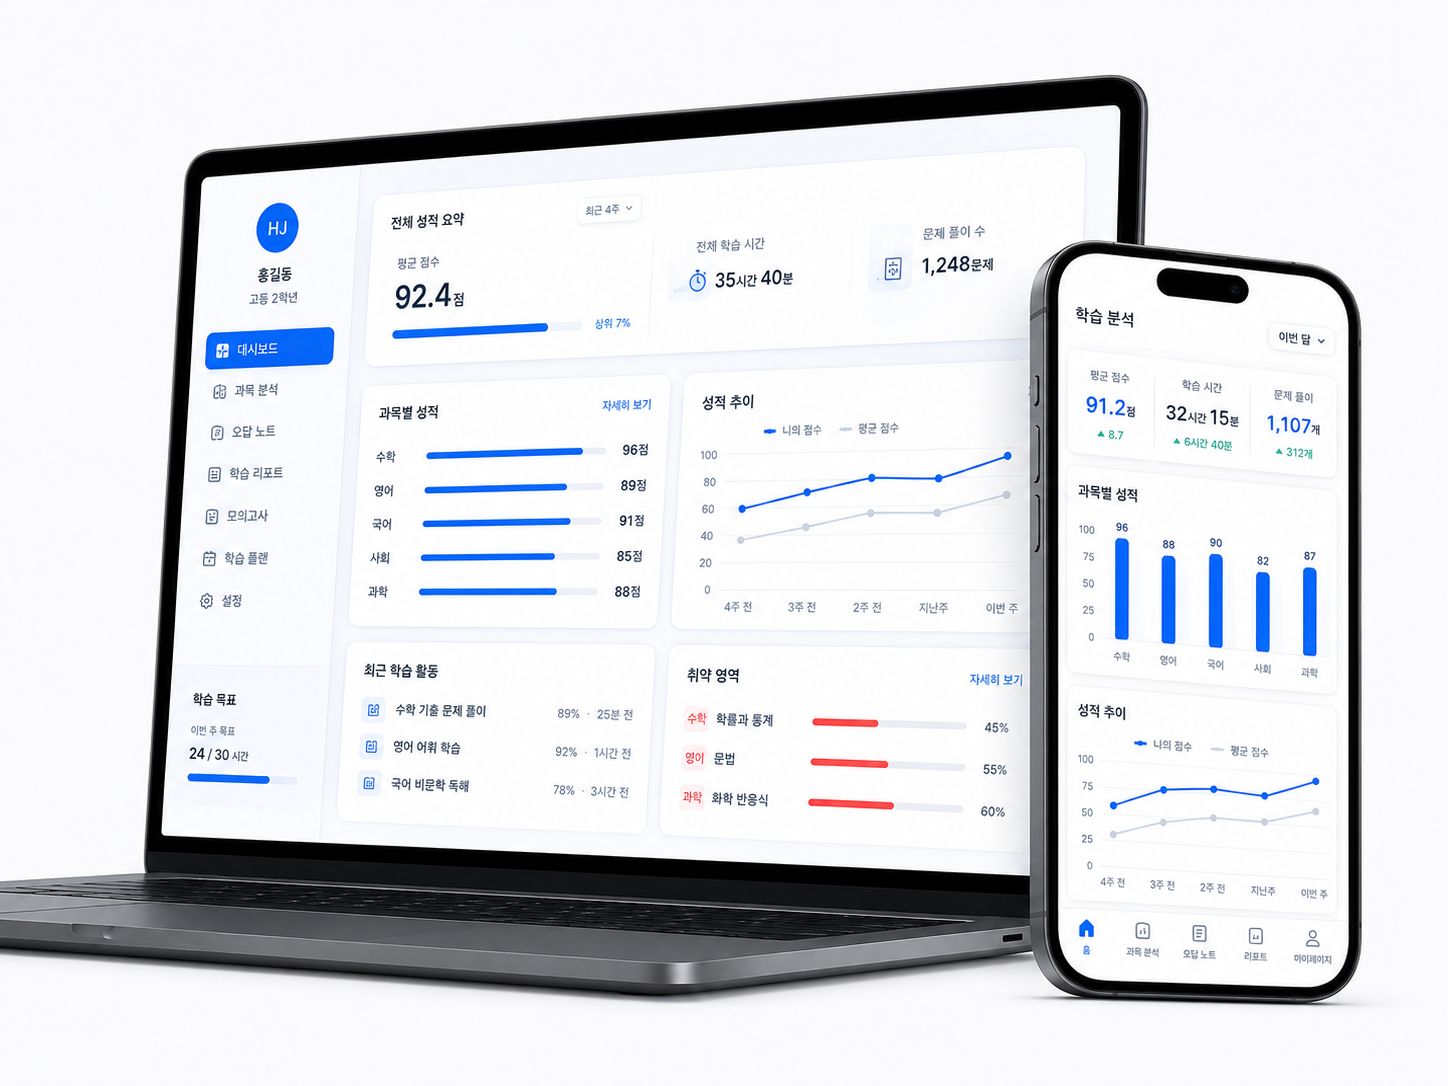
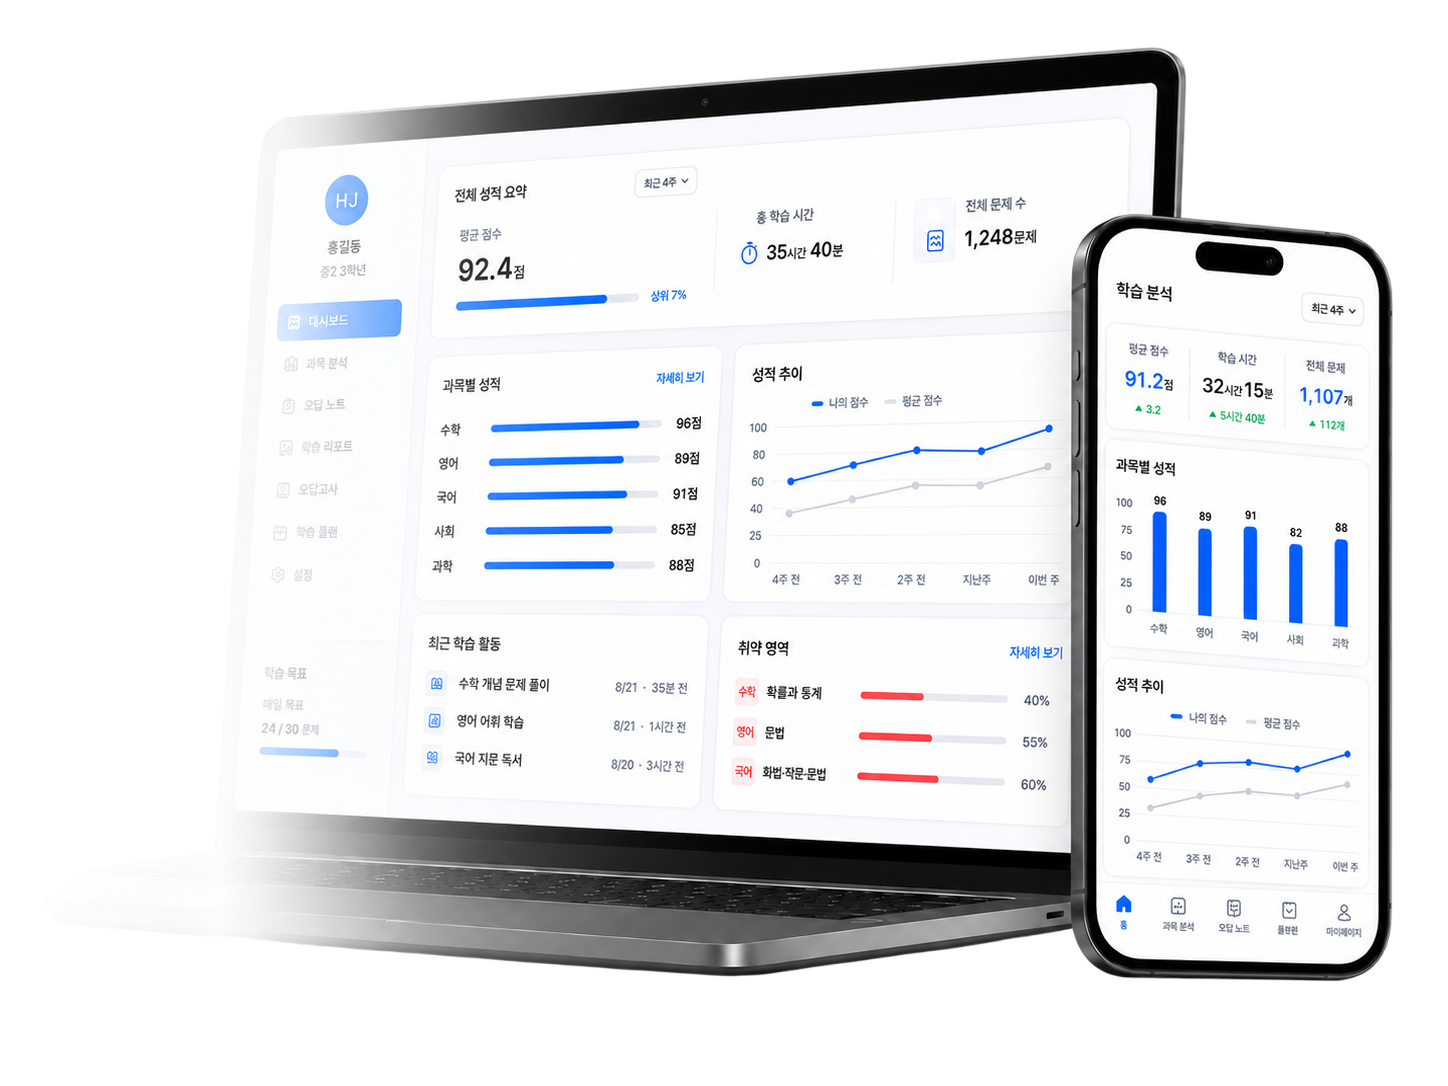
reaarange payment and service page 1.1

diff --git a/css/service.css b/css/service.css
@@ -33,23 +33,9 @@ ul, ol { list-style: none; margin: 0; padding: 0; }
 img, svg { display: block; max-width: 100%; }
 
 /* =========================================
-   2. Header (main site 동일 구조)
-   ========================================= */
-#site-header { position: sticky; top: 0; z-index: 100; height: 83px; padding: 0 32px; display: flex; align-items: center; justify-content: space-between; background: rgba(255,255,255,.92); backdrop-filter: blur(10px); -webkit-backdrop-filter: blur(10px); border-bottom: 1px solid rgba(0,0,0,.06); }
-.logo-container { display: flex; align-items: center; }
-.logo-link { display: flex; align-items: center; gap: 10px; }
-.logo-link svg { flex-shrink: 0; }
-.logo { font-size: 20px; font-weight: 900; color: var(--navy); letter-spacing: -0.03em; }
-.nav-links { display: flex; align-items: center; gap: 28px; }
-.nav-links a { font-size: 15px; font-weight: 600; color: var(--text); transition: color .18s; }
-.nav-links a:hover { color: var(--primary); }
-.nav-btn { min-height: 38px; padding: 0 18px; background: var(--primary); color: #fff !important; border-radius: var(--radius-sm); font-weight: 800 !important; font-size: 14px !important; display: inline-flex; align-items: center; transition: background .18s !important; }
-.nav-btn:hover { background: var(--primary-dark) !important; }
-
-/* =========================================
    3. 공통 레이아웃
    ========================================= */
-.service-page { width: min(100%, var(--container)); margin: 0 auto; }
+.service-page { width: min(100%, var(--container)); margin: 0 auto; padding-top: 83px; }
 .section-label { margin: 0 0 14px; font-size: 14px; font-weight: 800; color: var(--primary); letter-spacing: .06em; text-transform: uppercase; }
 .btn { min-height: 52px; padding: 0 28px; display: inline-flex; align-items: center; justify-content: center; gap: 10px; border-radius: var(--radius-sm); font-size: 15px; font-weight: 800; font-family: inherit; cursor: pointer; border: 0; transition: background .18s, transform .18s, box-shadow .18s; letter-spacing: -0.01em; }
 .btn-primary { background: var(--primary); color: #fff; box-shadow: 0 8px 22px rgba(76,121,238,.28); }
@@ -62,7 +48,7 @@ img, svg { display: block; max-width: 100%; }
 /* =========================================
    4. Hero Section
    ========================================= */
-.hero-section { padding: 64px 44px 52px; display: grid; grid-template-columns: minmax(0,1fr) minmax(360px,500px); gap: 32px; align-items: center; background: radial-gradient(circle at 15% 20%, rgba(76,121,238,.08) 0%, transparent 40%), linear-gradient(180deg, #fff 0%, #f8fbff 100%); }
+.hero-section { padding: 64px 44px 52px; display: grid; grid-template-columns: minmax(0,1fr) minmax(360px,560px); gap: 0; align-items: start; background: radial-gradient(circle at 10% 30%, rgba(76,121,238,.07) 0%, transparent 44%); overflow: visible; }
 .eyebrow { margin: 0 0 16px; font-size: 16px; font-weight: 800; color: var(--primary); }
 .hero-copy h1 { margin: 0; font-size: clamp(36px, 4.5vw, 52px); line-height: 1.18; letter-spacing: -0.04em; color: var(--navy); }
 .hero-copy h1 strong { color: var(--primary); }
@@ -72,8 +58,9 @@ img, svg { display: block; max-width: 100%; }
 .safe-note i { color: var(--primary); font-size: 13px; }
 
 /* Hero Visual — 실제 서비스 이미지 */
-.hero-visual { display: flex; align-items: center; justify-content: center; }
-.hero-device-img { width: 100%; max-width: 520px; height: auto; object-fit: contain; filter: drop-shadow(0 20px 40px rgba(16,33,63,.14)); border-radius: var(--radius-lg); }
+.hero-copy { position: relative; z-index: 2; padding-top: 32px; width: calc(100% + 10%); margin-right: -10%; }
+.hero-visual { display: flex; align-items: flex-start; justify-content: flex-end; position: relative; z-index: 1; padding-top: 56px; }
+.hero-device-img { width: 100%; max-width: 620px; height: auto; object-fit: contain; filter: drop-shadow(0 16px 36px rgba(16,33,63,.1)); }
 
 /* =========================================
    5. Message Band
@@ -212,13 +199,10 @@ img, svg { display: block; max-width: 100%; }
    10. Responsive — Tablet (900px)
    ========================================= */
 @media (max-width: 900px) {
-  #site-header { height: 72px; padding: 0 22px; }
-  .logo { font-size: 18px; }
-  .nav-links { gap: 16px; }
-  .nav-links a:not(.nav-btn) { display: none; }
-
-  .service-page { width: 100%; }
+  .service-page { width: 100%; padding-top: 72px; }
   .hero-section { grid-template-columns: 1fr; padding: 48px 28px 36px; }
+  .hero-copy { padding-top: 0; width: 100%; margin-right: 0; }
+  .hero-visual { padding-top: 24px; justify-content: center; }
   .hero-device-img { max-width: 480px; margin: 0 auto; }
 
   .message-band { margin: 24px 28px; }
@@ -240,8 +224,7 @@ img, svg { display: block; max-width: 100%; }
    11. Responsive — Mobile (560px)
    ========================================= */
 @media (max-width: 560px) {
-  #site-header { height: 61px; padding: 0 16px; }
-  .logo { font-size: 16px; }
+  .service-page { padding-top: 61px; }
 
   .hero-section { padding: 40px 20px 28px; }
   .hero-copy h1 { font-size: 34px; }

diff --git a/css/payment.css b/css/payment.css
@@ -34,23 +34,9 @@ ul, ol { list-style: none; margin: 0; padding: 0; }
 img, svg { display: block; max-width: 100%; }
 
 /* =========================================
-   2. Header (main site 동일 구조)
-   ========================================= */
-#site-header { position: sticky; top: 0; z-index: 100; height: 83px; padding: 0 32px; display: flex; align-items: center; justify-content: space-between; background: rgba(255,255,255,.92); backdrop-filter: blur(10px); -webkit-backdrop-filter: blur(10px); border-bottom: 1px solid rgba(0,0,0,.06); }
-.logo-container { display: flex; align-items: center; }
-.logo-link { display: flex; align-items: center; gap: 10px; }
-.logo-link svg { flex-shrink: 0; }
-.logo { font-size: 20px; font-weight: 900; color: var(--navy); letter-spacing: -0.03em; }
-.nav-links { display: flex; align-items: center; gap: 28px; }
-.nav-links a { font-size: 15px; font-weight: 600; color: var(--text); transition: color .18s; }
-.nav-links a:hover { color: var(--primary); }
-.nav-btn { min-height: 38px; padding: 0 18px; background: var(--primary); color: #fff !important; border-radius: var(--radius-sm); font-weight: 800 !important; font-size: 14px !important; display: inline-flex; align-items: center; transition: background .18s !important; }
-.nav-btn:hover { background: var(--primary-dark) !important; }
-
-/* =========================================
    3. 공통 레이아웃
    ========================================= */
-.pay-page { width: min(100%, var(--container)); margin: 0 auto; }
+.pay-page { width: min(100%, var(--container)); margin: 0 auto; padding-top: 83px; }
 
 /* =========================================
    4. Hero Section
@@ -273,12 +259,7 @@ img, svg { display: block; max-width: 100%; }
    10. Responsive — Tablet (900px)
    ========================================= */
 @media (max-width: 900px) {
-  #site-header { height: 72px; padding: 0 22px; }
-  .logo { font-size: 18px; }
-  .nav-links { gap: 16px; }
-  .nav-links a:not(.nav-btn) { display: none; }
-
-  .pay-page { width: 100%; }
+  .pay-page { width: 100%; padding-top: 72px; }
 
   .pay-hero { grid-template-columns: 1fr; padding: 48px 28px 56px; }
   .hero-image-wrap { max-height: 320px; }
@@ -305,8 +286,7 @@ img, svg { display: block; max-width: 100%; }
    11. Responsive — Mobile (560px)
    ========================================= */
 @media (max-width: 560px) {
-  #site-header { height: 61px; padding: 0 16px; }
-  .logo { font-size: 16px; }
+  .pay-page { padding-top: 61px; }
 
   .pay-hero { padding: 40px 20px 48px; }
   .hero-copy h1 { font-size: 32px; }

diff --git a/js/payment.js b/js/payment.js
@@ -113,16 +113,9 @@ document.addEventListener('DOMContentLoaded', () => {
         return;
     }
 
-    // 헤더 스크롤 효과
     const header = document.getElementById('site-header');
-    if (header) {
-        const onScroll = () => {
-            if (window.scrollY > 10) header.classList.add('scrolled');
-            else header.classList.remove('scrolled');
-        };
-        window.addEventListener('scroll', onScroll, { passive: true });
-        onScroll();
-    }
+    if (header) header.classList.add('scrolled');
+    syncHeaderNav();
 
     // 스크롤 리빌 애니메이션
     const reveals = document.querySelectorAll('.road-card, .price-row, .example-card, .stat-card');
@@ -160,6 +153,39 @@ document.addEventListener('DOMContentLoaded', () => {
     setupPaymentLoadingInterceptor();
     fetchUserInfo(userId);
 });
+
+function syncHeaderNav() {
+    const isLoggedIn = !!localStorage.getItem('userId');
+    const btnAnalysis = document.getElementById('navAnalysis');
+    const btnQna = document.getElementById('navQna');
+    const btnLogin = document.getElementById('loginBtn');
+    const btnMyPage = document.getElementById('myPageBtn');
+    const btnLogout = document.getElementById('logoutBtn');
+
+    if (isLoggedIn) {
+        if (btnAnalysis) btnAnalysis.classList.remove('hidden');
+        if (btnQna) btnQna.classList.remove('hidden');
+        if (btnMyPage) btnMyPage.classList.remove('hidden');
+        if (btnLogout) btnLogout.classList.remove('hidden');
+        if (btnLogin) btnLogin.classList.add('hidden');
+    }
+
+    if (btnMyPage) {
+        btnMyPage.addEventListener('click', (e) => {
+            e.preventDefault();
+            window.location.href = '/mypage';
+        });
+    }
+
+    if (btnLogout) {
+        btnLogout.addEventListener('click', (e) => {
+            e.preventDefault();
+            localStorage.clear();
+            sessionStorage.clear();
+            window.location.href = '/';
+        });
+    }
+}
 
 // 유저 정보 가져오기 및 티어 계산
 async function fetchUserInfo(userId) {

diff --git a/js/service.js b/js/service.js
@@ -1,15 +1,7 @@
 document.addEventListener('DOMContentLoaded', () => {
-  // Header scroll effect (main site 패턴 동일)
   const header = document.getElementById('site-header');
-  const onScroll = () => {
-    if (window.scrollY > 10) {
-      header.classList.add('scrolled');
-    } else {
-      header.classList.remove('scrolled');
-    }
-  };
-  window.addEventListener('scroll', onScroll, { passive: true });
-  onScroll();
+  if (header) header.classList.add('scrolled');
+  syncHeaderNav();
 
   // Scroll reveal animation
   const reveals = document.querySelectorAll('.process-card, .plan-card, .formula-item, .message-band');
@@ -29,3 +21,36 @@ document.addEventListener('DOMContentLoaded', () => {
     io.observe(el);
   });
 });
+
+function syncHeaderNav() {
+  const isLoggedIn = !!localStorage.getItem('userId');
+  const btnAnalysis = document.getElementById('navAnalysis');
+  const btnQna = document.getElementById('navQna');
+  const btnLogin = document.getElementById('loginBtn');
+  const btnMyPage = document.getElementById('myPageBtn');
+  const btnLogout = document.getElementById('logoutBtn');
+
+  if (isLoggedIn) {
+    if (btnAnalysis) btnAnalysis.classList.remove('hidden');
+    if (btnQna) btnQna.classList.remove('hidden');
+    if (btnMyPage) btnMyPage.classList.remove('hidden');
+    if (btnLogout) btnLogout.classList.remove('hidden');
+    if (btnLogin) btnLogin.classList.add('hidden');
+  }
+
+  if (btnMyPage) {
+    btnMyPage.addEventListener('click', (e) => {
+      e.preventDefault();
+      window.location.href = '/mypage';
+    });
+  }
+
+  if (btnLogout) {
+    btnLogout.addEventListener('click', (e) => {
+      e.preventDefault();
+      localStorage.clear();
+      sessionStorage.clear();
+      window.location.href = '/';
+    });
+  }
+}

diff --git a/payment.html b/payment.html
@@ -24,6 +24,7 @@
 
   <link rel="preconnect" href="https://cdn.jsdelivr.net" crossorigin>
   <link rel="stylesheet" href="https://cdnjs.cloudflare.com/ajax/libs/font-awesome/6.0.0/css/all.min.css">
+  <link rel="stylesheet" href="/css/style.css">
   <link rel="stylesheet" href="/css/payment.css" />
 </head>
 <body>
@@ -31,21 +32,20 @@
   <noscript><iframe src="https://www.googletagmanager.com/ns.html?id=GTM-KNHVMTR5"
   height="0" width="0" style="display:none;visibility:hidden"></iframe></noscript>
 
-  <header id="site-header">
+  <header id="site-header" class="scrolled">
     <div class="logo-container">
       <a href="/" class="logo-link">
-        <svg width="30" height="30" viewBox="0 0 32 32" fill="none" xmlns="http://www.w3.org/2000/svg" aria-hidden="true">
-          <rect width="32" height="32" rx="8" fill="#4c79ee"/>
-          <text x="16" y="22" font-size="18" font-weight="900" text-anchor="middle" fill="#fff" font-family="system-ui">S</text>
-        </svg>
+        <img src="/assets/figma/figma-asset-04.svg" alt="StudyCrack 로고">
         <span class="logo">StudyCrack</span>
       </a>
     </div>
     <nav class="nav-links">
       <a href="/service">서비스 소개</a>
-      <a href="/analysis">나만의 솔루션</a>
-      <a href="/qna">1:1 문의</a>
-      <a href="/login" class="nav-btn">로그인 / 회원가입</a>
+      <a href="/analysis" id="navAnalysis" class="hidden">나만의 솔루션</a>
+      <a href="/qna" id="navQna" class="hidden">1:1 문의</a>
+      <a href="/login" id="loginBtn" class="nav-btn">로그인 / 회원가입</a>
+      <a href="#" id="myPageBtn" class="hidden">마이페이지</a>
+      <a href="#" id="logoutBtn" class="nav-btn hidden">로그아웃</a>
     </nav>
   </header>
 

diff --git a/service.html b/service.html
@@ -24,6 +24,7 @@
 
   <link rel="preconnect" href="https://cdn.jsdelivr.net" crossorigin>
   <link rel="stylesheet" href="https://cdnjs.cloudflare.com/ajax/libs/font-awesome/6.0.0/css/all.min.css">
+  <link rel="stylesheet" href="/css/style.css">
   <link rel="stylesheet" href="/css/service.css" />
 </head>
 <body>
@@ -31,21 +32,20 @@
   <noscript><iframe src="https://www.googletagmanager.com/ns.html?id=GTM-KNHVMTR5"
   height="0" width="0" style="display:none;visibility:hidden"></iframe></noscript>
 
-  <header id="site-header">
+  <header id="site-header" class="scrolled">
     <div class="logo-container">
       <a href="/" class="logo-link">
-        <svg width="32" height="32" viewBox="0 0 32 32" fill="none" xmlns="http://www.w3.org/2000/svg" aria-hidden="true">
-          <rect width="32" height="32" rx="8" fill="#4c79ee"/>
-          <text x="16" y="22" font-size="18" font-weight="900" text-anchor="middle" fill="#fff" font-family="system-ui">S</text>
-        </svg>
+        <img src="/assets/figma/figma-asset-04.svg" alt="StudyCrack 로고">
         <span class="logo">StudyCrack</span>
       </a>
     </div>
     <nav class="nav-links">
       <a href="/service">서비스 소개</a>
-      <a href="/analysis">나만의 솔루션</a>
-      <a href="/qna">1:1 문의</a>
-      <a href="/login" class="nav-btn">로그인 / 회원가입</a>
+      <a href="/analysis" id="navAnalysis" class="hidden">나만의 솔루션</a>
+      <a href="/qna" id="navQna" class="hidden">1:1 문의</a>
+      <a href="/login" id="loginBtn" class="nav-btn">로그인 / 회원가입</a>
+      <a href="#" id="myPageBtn" class="hidden">마이페이지</a>
+      <a href="#" id="logoutBtn" class="nav-btn hidden">로그아웃</a>
     </nav>
   </header>
 
